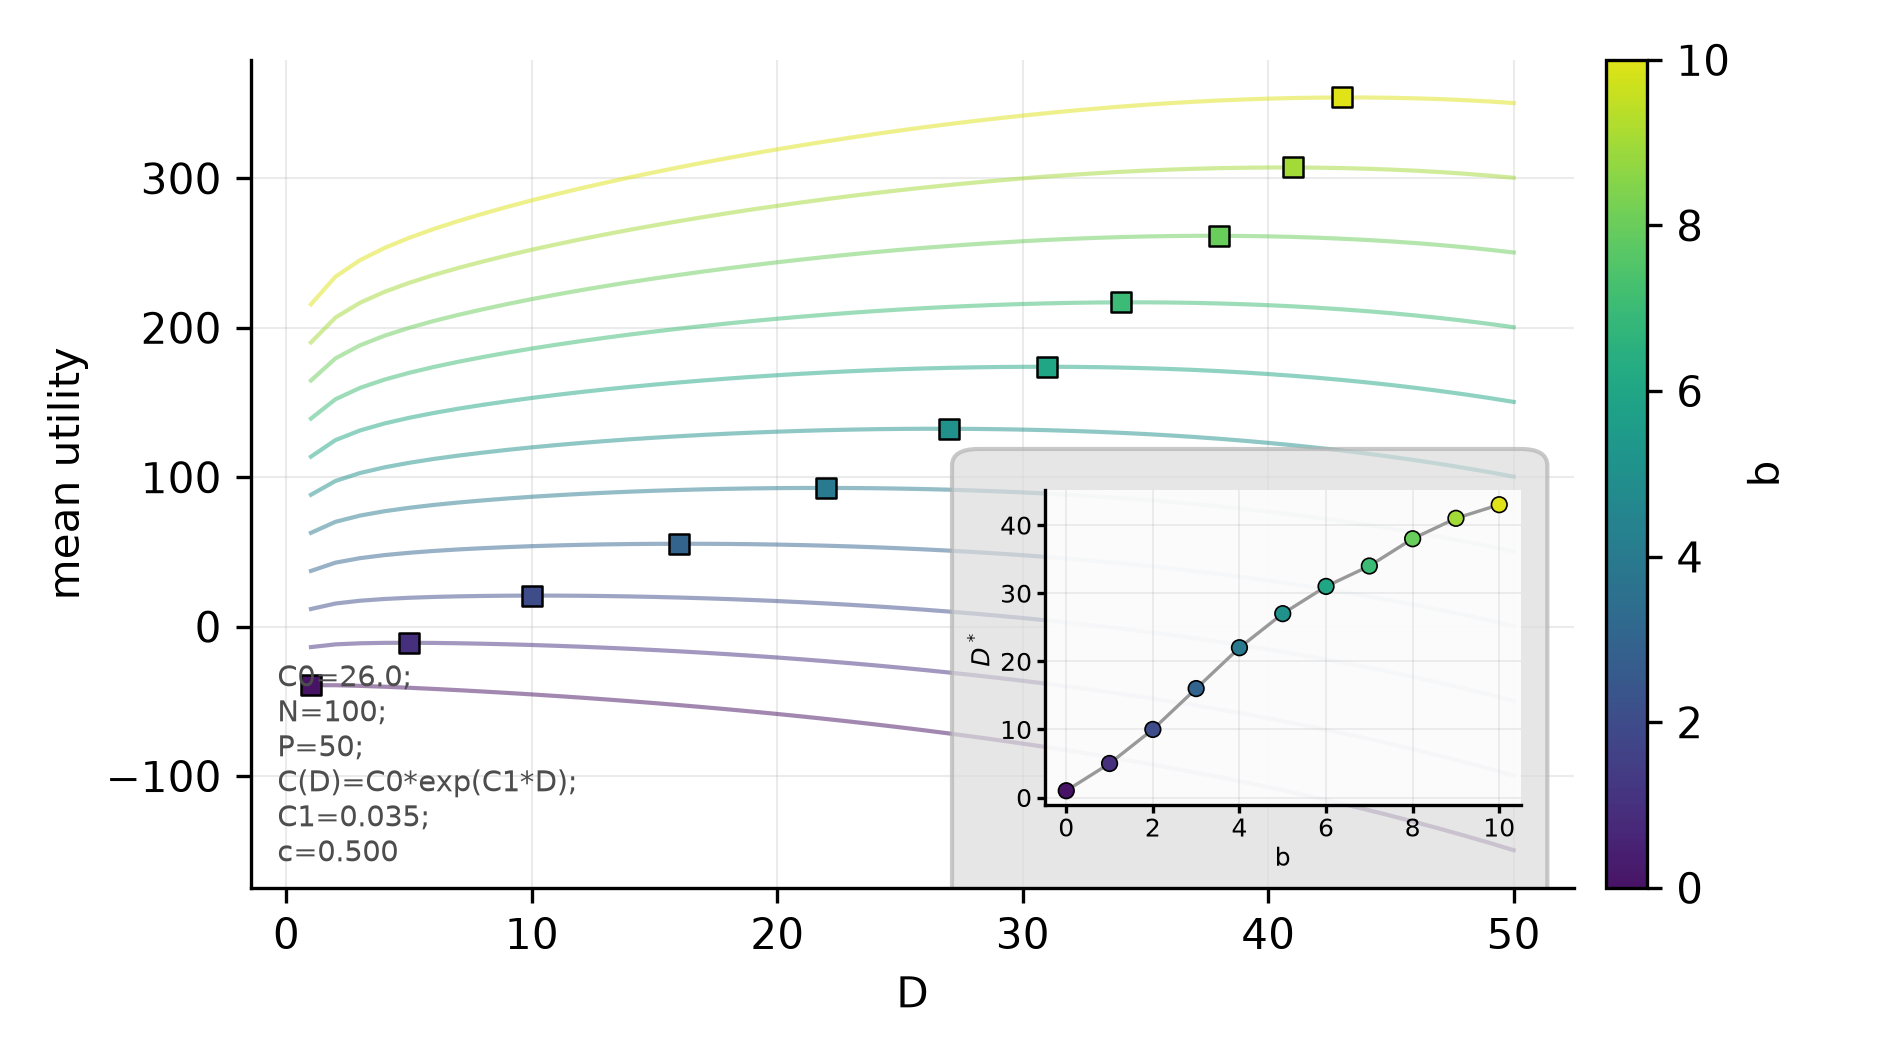
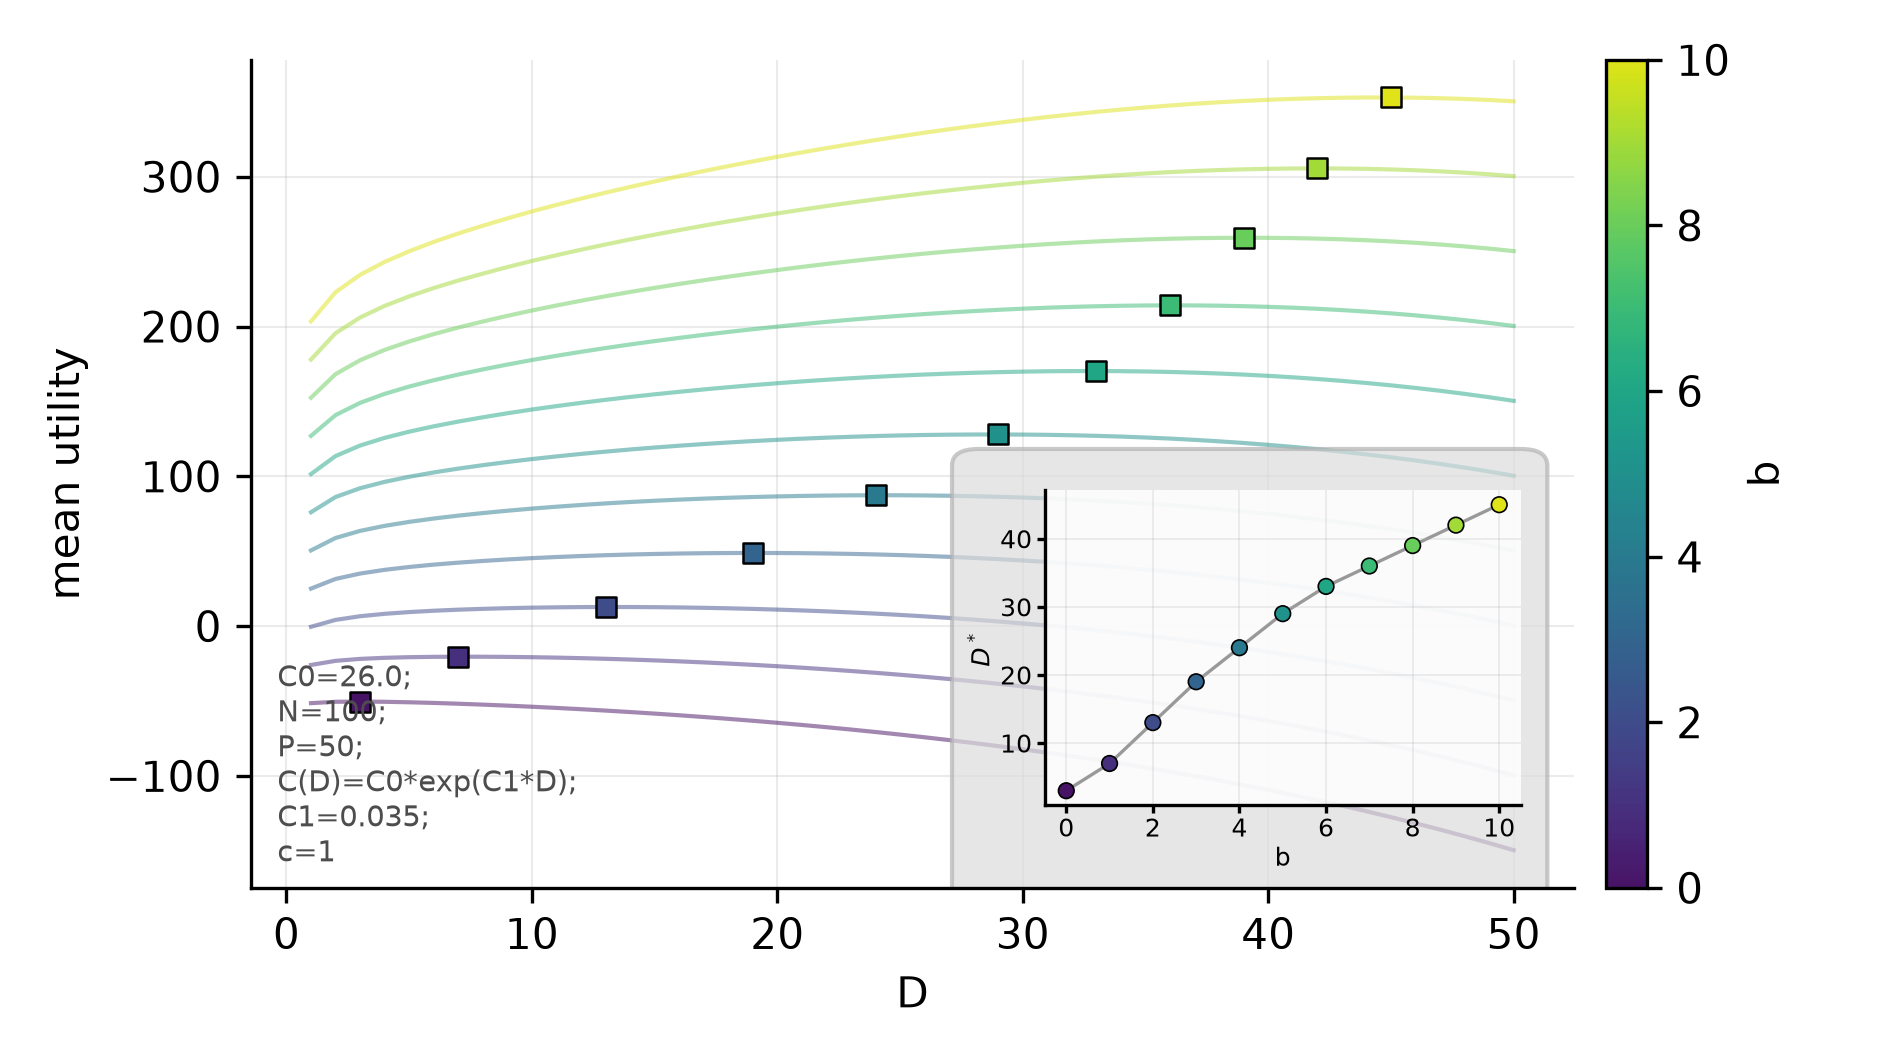
updated plots

diff --git a/modelfast.py b/modelfast.py
@@ -230,7 +230,7 @@ plt.savefig("figs/linear_Dstar_overStoreCost_X_Benefit.png", dpi=300)
 # ------------------------------------
 P = 50
 N = 100
-c=0.5
+c=1
 costFunc_exp = lambda D, C0, C1=0.035: C0 * np.exp(C1 * D)
 costFunc_log = lambda D, C0, C1=1: C0 * np.log2(C1 * D)
 for cfunc in["exp", "log"]:
